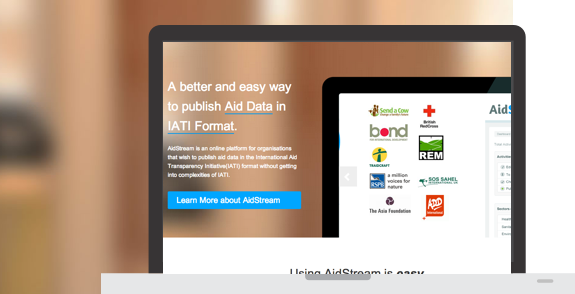
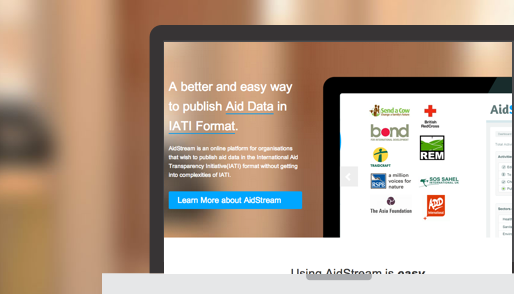
fixed home bg background,menu issue

diff --git a/assets/js/script.js b/assets/js/script.js
@@ -1,10 +1,6 @@
 $(document).ready(function(){
-    $('.main-wrapper,.inner-wrapper').css('height', $(window).height() + 'px');    
-    
-    if($(window).height < 600 ) {
-        $('.main-wrapper,.inner-wrapper').css('min-height', $(window).height() + 'px');    
-        $('.main-wrapper,.inner-wrapper').css('height', 'auto');    
-    }
+        $('.inner-wrapper').css('min-height', $(window).height() + 'px');     
+
 
 
     //        new UIMorphingButton( document.querySelector( '.morph-button' ), {
@@ -69,6 +65,10 @@ $(document).ready(function(){
         $('.navigation-wrapper').removeClass('noscroll');
         $(this).parents('.navigation-wrapper').toggleClass('scroll');
         $('body').toggleClass('fixed');
+            $('.trigger').delay(600).queue(function(){
+                $(this).toggleClass('open').clearQueue();
+            });
+
         event.preventDefault();
         if ($(this).hasClass("inactive") ) {
             $( ".navigation-wrap" ).animate({
@@ -114,7 +114,9 @@ $(document).ready(function(){
     });
 
     $(window).resize(function(){
-        $('.main-wrapper,.inner-wrapper').css('height', $(window).height() + 'px');  
+            $('.inner-wrapper').css('min-height', $(window).height() + 'px');    
+
+
         $(window).scroll(function() {
             if ($(window).width() > 1100) {
                 var scrollVal = $(this).scrollTop();

diff --git a/_includes/_navigation.html b/_includes/_navigation.html
@@ -3,19 +3,21 @@
 		<a href="{{ site.url }}">{{ site.title }}</a>
 	</div><!-- /.site-name -->
 
-<!--	<div class="top-navigation morph-button morph-button-modal morph-button-modal-4 morph-button-fixed navigation">-->
+	<!--	<div class="top-navigation morph-button morph-button-modal morph-button-modal-4 morph-button-fixed navigation">-->
 	<div class="top-navigation navigation">
 		<div class="trigger inactive">
-			<div class="bar">
-				<span class="icon-bar top"></span>
-				<span class="icon-bar middle"></span>
-				<span class="icon-bar bottom"></span>
+			<div class="trigger-wrap">	
+				<div class="bar">
+					<span class="icon-bar top"></span>
+					<span class="icon-bar middle"></span>
+					<span class="icon-bar bottom"></span>
+				</div>
+				<div class="menu">Menu</div>
 			</div>
-			<div class="menu">Menu</div>
 		</div>
-<!--		<div class="navigation-wrap morph-content">-->
+		<!--		<div class="navigation-wrap morph-content">-->
 		<div class="navigation-wrap">
-<!--			<span class="icon icon-close"><span>Menu</span></span>-->
+			<!--			<span class="icon icon-close"><span>Menu</span></span>-->
 			<div class="site-name">
 				<a href="{{ site.url }}">{{ site.title }}</a>
 			</div><!-- /.site-name -->

diff --git a/assets/css/style.css b/assets/css/style.css
@@ -92,7 +92,7 @@ input,button {
     margin: 0 auto;
 }
 
-.main-wrapper {
+body.home {
     background: #d1d1d1 url(../../images/pages/bg-img.jpg) no-repeat 0 0;
     background-size: cover;
 }
@@ -264,12 +264,26 @@ background: transparent!important;
     text-transform: none;
     float: right;
     margin-left: 10px;
-    margin-top: 35px;
+}
+
+ .trigger-wrap {
+    float: left;
+    margin-top: 34px;
+    border-radius: 3px;
+    padding: 6px;
+}
+
+.open .trigger-wrap {
+    background: rgba(255,255,255,0.5);
+}  
+
+.inactive .trigger-wrap {
+    background: none!important;
 }
 
 .bar {
     float: left;
-    margin-top: 40px;
+    margin-top: 5px;
 }
 
 .bar span.icon-bar {
